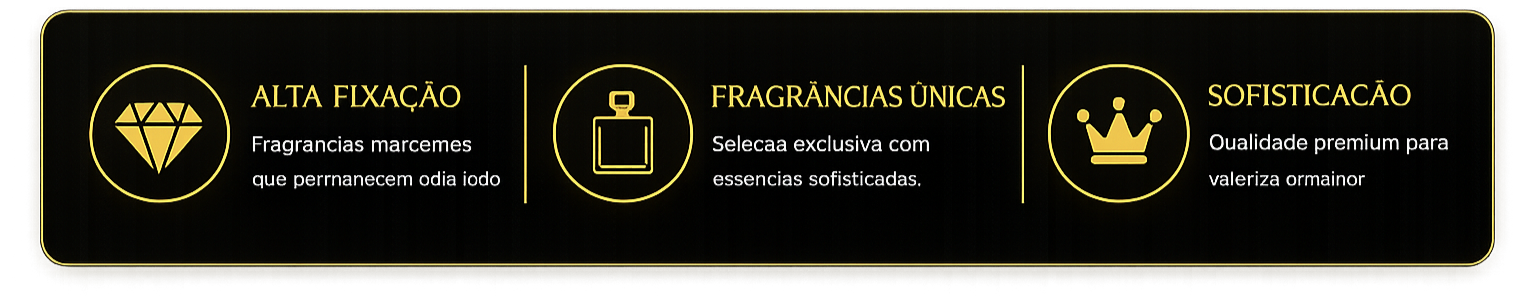
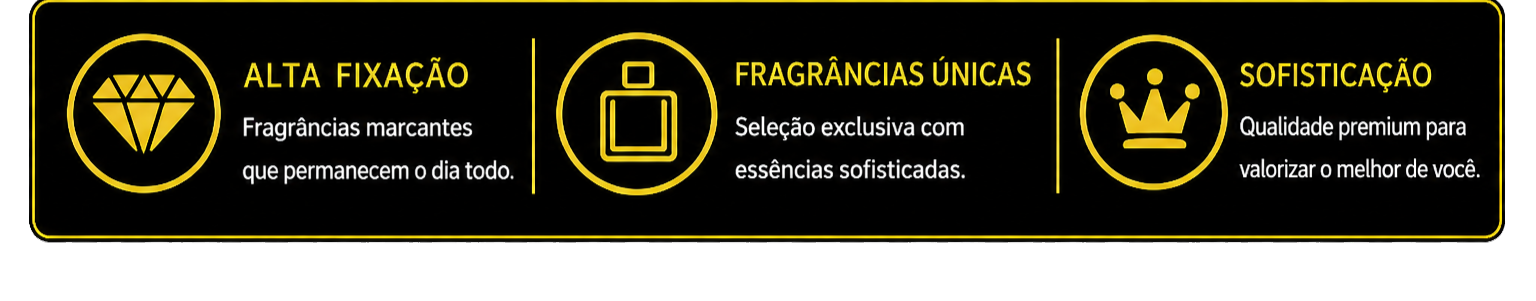
Corrige faixa de benefícios

diff --git a/index.html b/index.html
@@ -134,7 +134,7 @@
   <div class="catalog-header">
     <p class="catalog-kicker">BOX PARFUM</p>
     <h2>Nosso Catálogo</h2>
-    <p class="catalog-subtitle">Perfumes, body splashs e cuidados selecionados para marcar presença.</p>
+    <p class="catalog-subtitle">Perfumes, body splash e cuidados selecionados para marcar presença.</p>
   </div>
 
   <div class="catalog-tools">